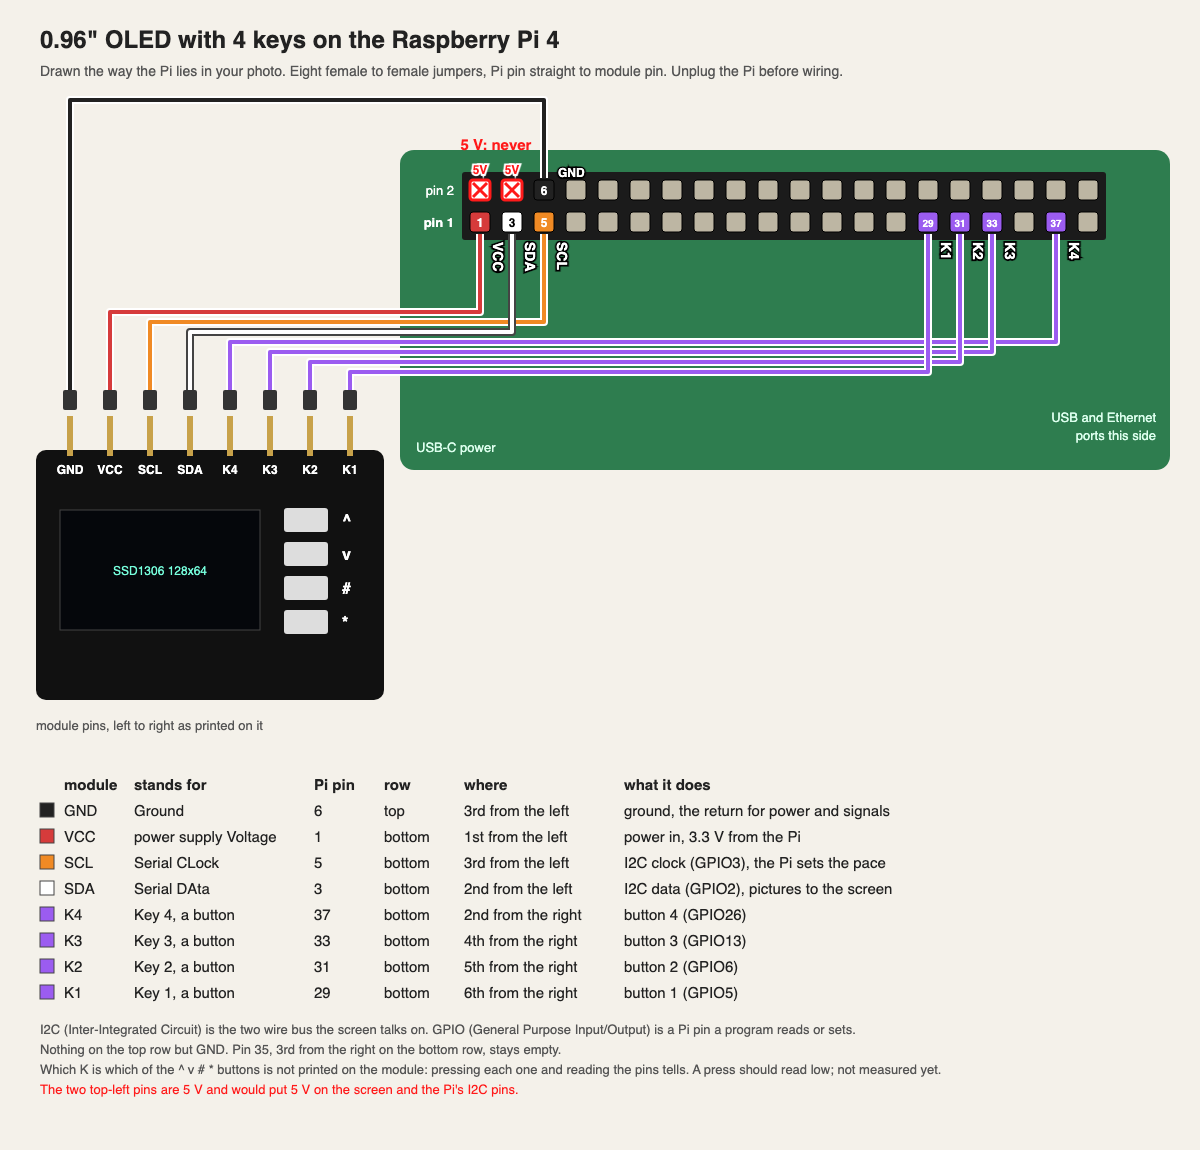
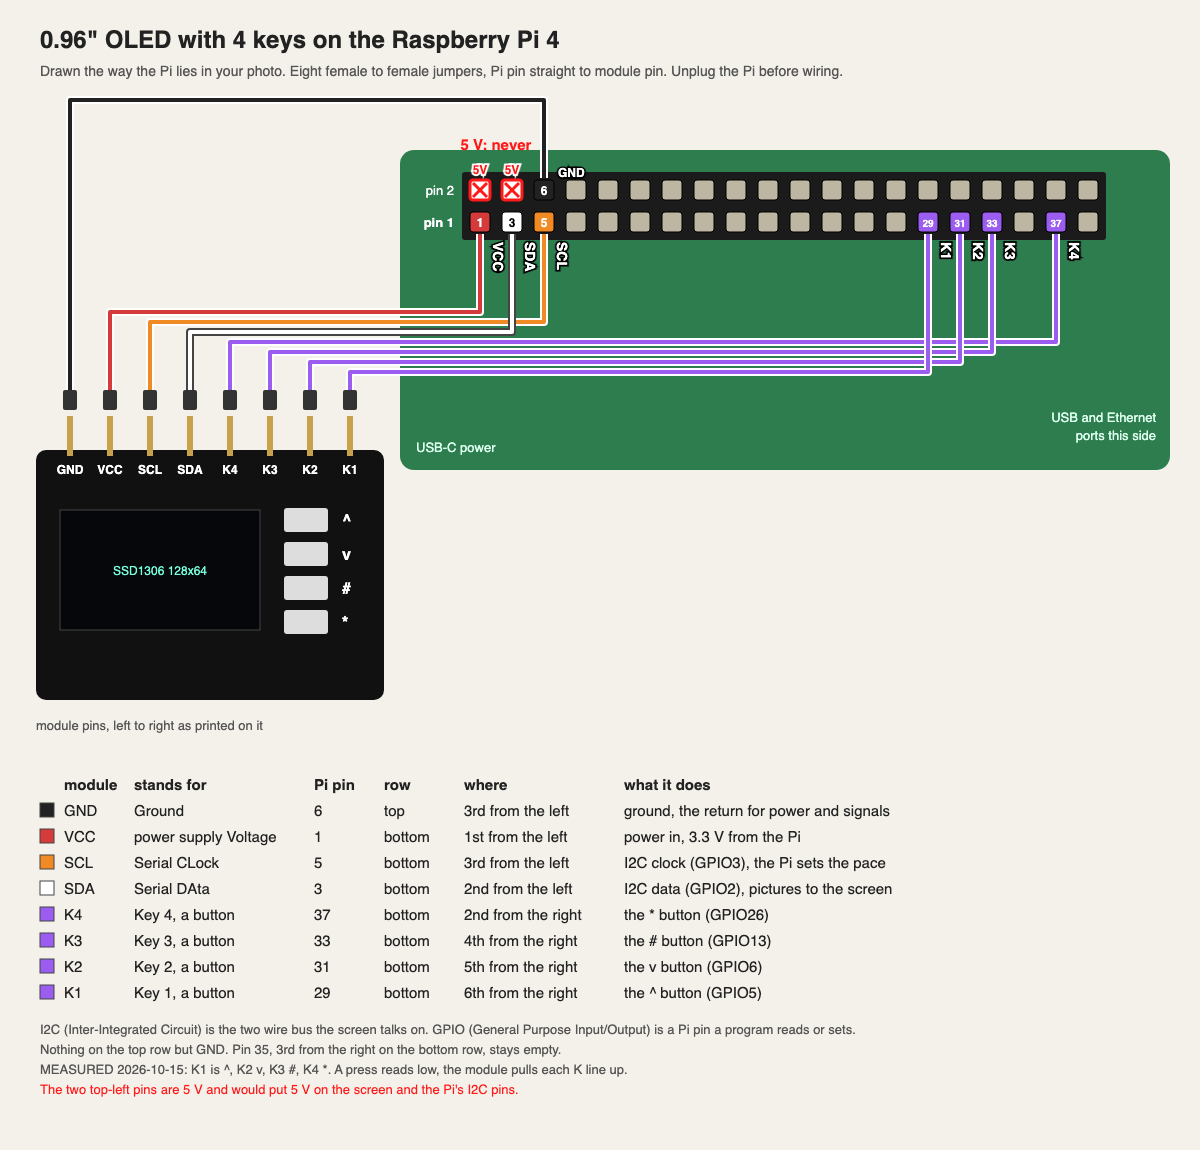
rig/board: which button is which K, measured by press; a press reads low

Changed region(s): [[0.3392, 0.913, 0.7708, 0.9435], [0.5242, 0.7913, 0.6475, 0.8826], [0.0308, 0.913, 0.3083, 0.9435]]

diff --git a/BACKLOG.md b/BACKLOG.md
@@ -603,7 +603,7 @@
 - ~~**On the Pi's LAN: step 4 to 6 of plan-pi-supercollider-defs, synth/100 and shader/010 on the real Pi**~~ (2026-10-12). Asked: *"im in pi lan, go with backlog stuff"*, VPN off. Push and md5 first; then the engine measurement (own vs shared), timed kicks, the piano unaffected; synth/100 relay and direct; shader/010 on the board's video (v3dpipe needs the `uSegments` line compiled). The OLED waits: not bought. DONE by a background agent: Pi 4 Model B, 13 md5s match; engine OWN (same DSP, shared needs the 202 MB sampler up first); five programs load same: true (collide compiles in 53.5 ms); timed kicks 5.1 ms median spread 8.2, late 0 over 290; the piano unaffected; synth/100 real Pi lag median about 266 ms relay, 108 ms direct, offset under 0.4 ms; v3dpipe rebuilt with uSegments, shader/010's program SHADER-LIVE at 26.2 fps. The push restart ended Yoshimi and Pappus (Yoshimi restarted, Pappus not). Open: stopping an engine costs 1 to 2 xruns; shader/010 needs /mirror/'s H.264 receiver as a kit module; drums on the Pi (plan steps 6, 7).
 - ~~**rhythm/050: eight drums instead of four**~~ (2026-10-12). Asked: *"add 4 more drum isntrumets to 050"*. Four more voices (for example clap, low tom, high tom, rim or cowbell) and four more read rows of the 16 x 9 picture; 000 and 010 keep four. Then *"add invert button on right image. make shaders bw only, (can you find icon for invert?)"*: an invert icon button on the pixelated panel, the shader black and white only; no invert in the kit's Feather set, so a `contrast` icon (a circle half filled, Lucide's shape) is added to icons.mjs. Then *"grid shold change immediately"*: the grid follows the picture every frame, not once a bar. DONE by a background agent: clap, low tom, high tom, cowbell; picture rows 2 to 9 are the eight drums (the top row dropped, black with a dotted line); a 16 x 9 readback each frame, 0 of 120 frames disagreeing with the picture; pure black and white; `web:invert` node and a `contrast` icon added to icons.mjs (kit/icons 26/26). Open: at 1280 the speaker column scrolls out of the patchbay box.
 - ~~**Pi SuperCollider definitions: steps 1 to 3 (no Pi)**~~ (2026-10-12). Asked, after plans/plan-pi-supercollider-defs.md: *"A third SuperCollider engine on the Pi, -- do we need 3?"* (answered: not necessarily; built port-agnostic so step 4 decides on the Pi's CPU) and *"start"*. Step 1 the board core, pure and tested; step 2 the page-side kit module and the stand-in board's new verbs; step 3 `createBoard` on the page's AudioContext, synth/100 on one 48 kHz context against the stand-in. DONE by a background agent: `rig/board/scollide.mjs` (ENGINE one line, own 57131 by default or shared 57130, page nodes in group 900 through a board limiter), board tests 494 to 549 with twelve sabotages; `demo/shell/board-collide.mjs` 8/8 against the stand-in (offset 0.02 ms off, 28 of 28 hits on time at AHEAD 250); `createBoard({ audioContext, toDestination })`; synth/100 asks the board for 3 s, else simulates, footer says which. Step 4 needs the Pi: push (13 md5s), CPU own vs shared, timed vs untimed kicks. The scsynth half and the limiter have never run.
-- **The Pico's OLED and four keys on the Pi, as a board node; plan** (2026-10-12). Asked: *"can i connect pi to the sceren we planned for pico?"*, answered yes in chat (0.96" 128x64 SSD1306 I2C at 0x3C, 3.3 V, pins 1/6/3/5, keys on free GPIOs), then *"yes backlog it and plan"*. Plan in plans/: the screen and keys as a board node in the patchbay, what it shows, ui.c on the Pi, steps. Pi off the LAN. PLAN DONE: plans/plan-pi-oled.md (oled-ui.wasm in the board process with a shared panel-screen.mjs, a small `oledpush` C helper on i2c-dev, keys by the gpio-key overlay, node `pi-1:panel`; keys on GPIO 5, 6, 13, 26, not 19; seven steps). Not built. The module is NOT bought (owner, 2026-10-12: *"not bought"*); the 0.96" at about 10.50 EUR or the 2.42" SSD1309 at about 35 EUR, same protocol. WAITING: on the OLED module, not bought; plan done (2fff6242 plans/plan-pi-oled.md). 2026-10-15: the owner has the screen, a breadboard and the Pi (*"i need to connect that parts display to pi. make a schema"*); wiring diagram rig/board/panel-wiring.svg/.png from rig/board/panel-wiring.mjs, pins as plan 1.2. Next: wire it, then plan step 0 (i2cdetect shows 0x3c, key polarity). The four display wires alone are enough to see the screen. A python3-smbus test script (init + test pattern) was offered; owner said *"later"*. 2026-10-15 afternoon: wired with eight female to female jumpers (rig/board/panel-wiring.png drawn as the board lies); the Pi was off the LAN until its cable moved from the router's WAN/LAN 2 port to LAN 1, then 192.168.1.213. MEASURED: I2C on via raspi-config (dtparam=i2c_arm=on, /dev/i2c-1 with no reboot), i2cdetect -y 1 shows **0x3c**; a checkerboard drawn with i2ctransfer (ssd1306.c init). Keys at rest: GPIO5, 6, 13, 26 all read hi, 13 and 26 against the Pi's own pull-down, so the module pulls the K lines up and a press should read low (press not yet measured). Next: plan-pi-oled step 1 onward.
+- **The Pico's OLED and four keys on the Pi, as a board node; plan** (2026-10-12). Asked: *"can i connect pi to the sceren we planned for pico?"*, answered yes in chat (0.96" 128x64 SSD1306 I2C at 0x3C, 3.3 V, pins 1/6/3/5, keys on free GPIOs), then *"yes backlog it and plan"*. Plan in plans/: the screen and keys as a board node in the patchbay, what it shows, ui.c on the Pi, steps. Pi off the LAN. PLAN DONE: plans/plan-pi-oled.md (oled-ui.wasm in the board process with a shared panel-screen.mjs, a small `oledpush` C helper on i2c-dev, keys by the gpio-key overlay, node `pi-1:panel`; keys on GPIO 5, 6, 13, 26, not 19; seven steps). Not built. The module is NOT bought (owner, 2026-10-12: *"not bought"*); the 0.96" at about 10.50 EUR or the 2.42" SSD1309 at about 35 EUR, same protocol. WAITING: on the OLED module, not bought; plan done (2fff6242 plans/plan-pi-oled.md). 2026-10-15: the owner has the screen, a breadboard and the Pi (*"i need to connect that parts display to pi. make a schema"*); wiring diagram rig/board/panel-wiring.svg/.png from rig/board/panel-wiring.mjs, pins as plan 1.2. Next: wire it, then plan step 0 (i2cdetect shows 0x3c, key polarity). The four display wires alone are enough to see the screen. A python3-smbus test script (init + test pattern) was offered; owner said *"later"*. 2026-10-15 afternoon: wired with eight female to female jumpers (rig/board/panel-wiring.png drawn as the board lies); the Pi was off the LAN until its cable moved from the router's WAN/LAN 2 port to LAN 1, then 192.168.1.213. MEASURED: I2C on via raspi-config (dtparam=i2c_arm=on, /dev/i2c-1 with no reboot), i2cdetect -y 1 shows **0x3c**; a checkerboard drawn with i2ctransfer (ssd1306.c init). Keys at rest: GPIO5, 6, 13, 26 all read hi, 13 and 26 against the Pi's own pull-down, so the module pulls the K lines up. MEASURED by press: ^ is K1 (GPIO5), v K2 (GPIO6), # K3 (GPIO13), * K4 (GPIO26), each press low for about 190 ms, no double seen at a 30 ms poll. Next: plan-pi-oled step 1 onward.
 - ~~**rhythm/010: four scopes a quarter wide on top, one per drum**~~ (2026-10-12). Asked: *"add 4 scopes 1/4 each on top of 010"*. The four voices come out of one scsynth as one mix today, so each needs its own output channel to be scoped apart. Then *"scopes are very \"nervous\". what to do on 010"*: each scope triggered by its own drum's hits and held still between hits. *"is the trace separate box in patchbay?"*: four scope nodes, each with the drum's audio and the sequencer's hits on wires. *"is ti a scope feature/prop?"*: the triggered mode goes in the kit's scope component, default free. *"scope labels keep chaning size"*: labels a fixed size, live values in reserved widths. DONE: each drum on its own output pair (8 outputs, splitter, `compile(src, { bus })`), `createWaveShape({ mode: 'triggered', window, fade })` in synth-view.mjs with a TRIGGERED SCOPE specimen on /kit/devices/, four `web:scope-<drum>` nodes with audio and the hits on wires; label size fixed in the kit; measured 163 x 92 px constant, held traces identical between hits.
 - ~~**rhythm/020: the drum machine on samples, with /tom/'s loader made generic; plan first**~~ (2026-10-12). Asked: *"020 is tomp sample loader. sc player? knobs? how? plan fist and present"*, then *"020 is 000 or 010 but has sample parser / loader from tom demo. make it generic. what about paramers? is it another sc instance?"*. Plan presented in chat; waiting on the owner's choices (default sounds, knobs per row, /tom/ onto the shared loader). Now: choices made in the "just move on" row; rhythm/020, sample-loader.mjs and /tom/ on it are in the working tree, uncommitted. DONE by a background agent: `demo/shell/sample-loader.mjs` (packs, zips of WAVs, loose WAVs; /tom/ on it, 40/40 and 29 page asserts unchanged), a default kit rendered from the 000 drums in R2 at rhythm/default-kit/, one `drumsample` SynthDef on the same engine, pickers per row, pitch and length knobs per row. drum-machine.mjs: `api.values` is now key to Map.
 - **SuperCollider drums on the Pi, planned with Collide on the Pi** (2026-10-12). Asked: *"backlog pi sc drums and plan them along collide for pi"*. One plan for the board taking SynthDefs compiled in a tab (`/d_recv`) and playing them: synth/100's collide voice and rhythm/000's four drums, with timing across the relay (timestamped hits on the shared clock, clock/020) and the sound back. Plan in plans/, not built; the Pi is off the LAN. PLAN DONE: plans/plan-pi-supercollider-defs.md (a third scsynth `poscollide` on 57131, the board compiles the page's text with sclang-lite, hits on the board's clock 250 ms ahead on the relay, 150 direct; seven steps, three need no Pi). Its drums page was called rhythm/020, which the owner gave to the sample loader; renumber when built. Now: plan 9593d8ab; steps 1 to 4 done (d1f7c821, measured on the Pi ec257202); drums on the Pi (steps 6, 7) left.
